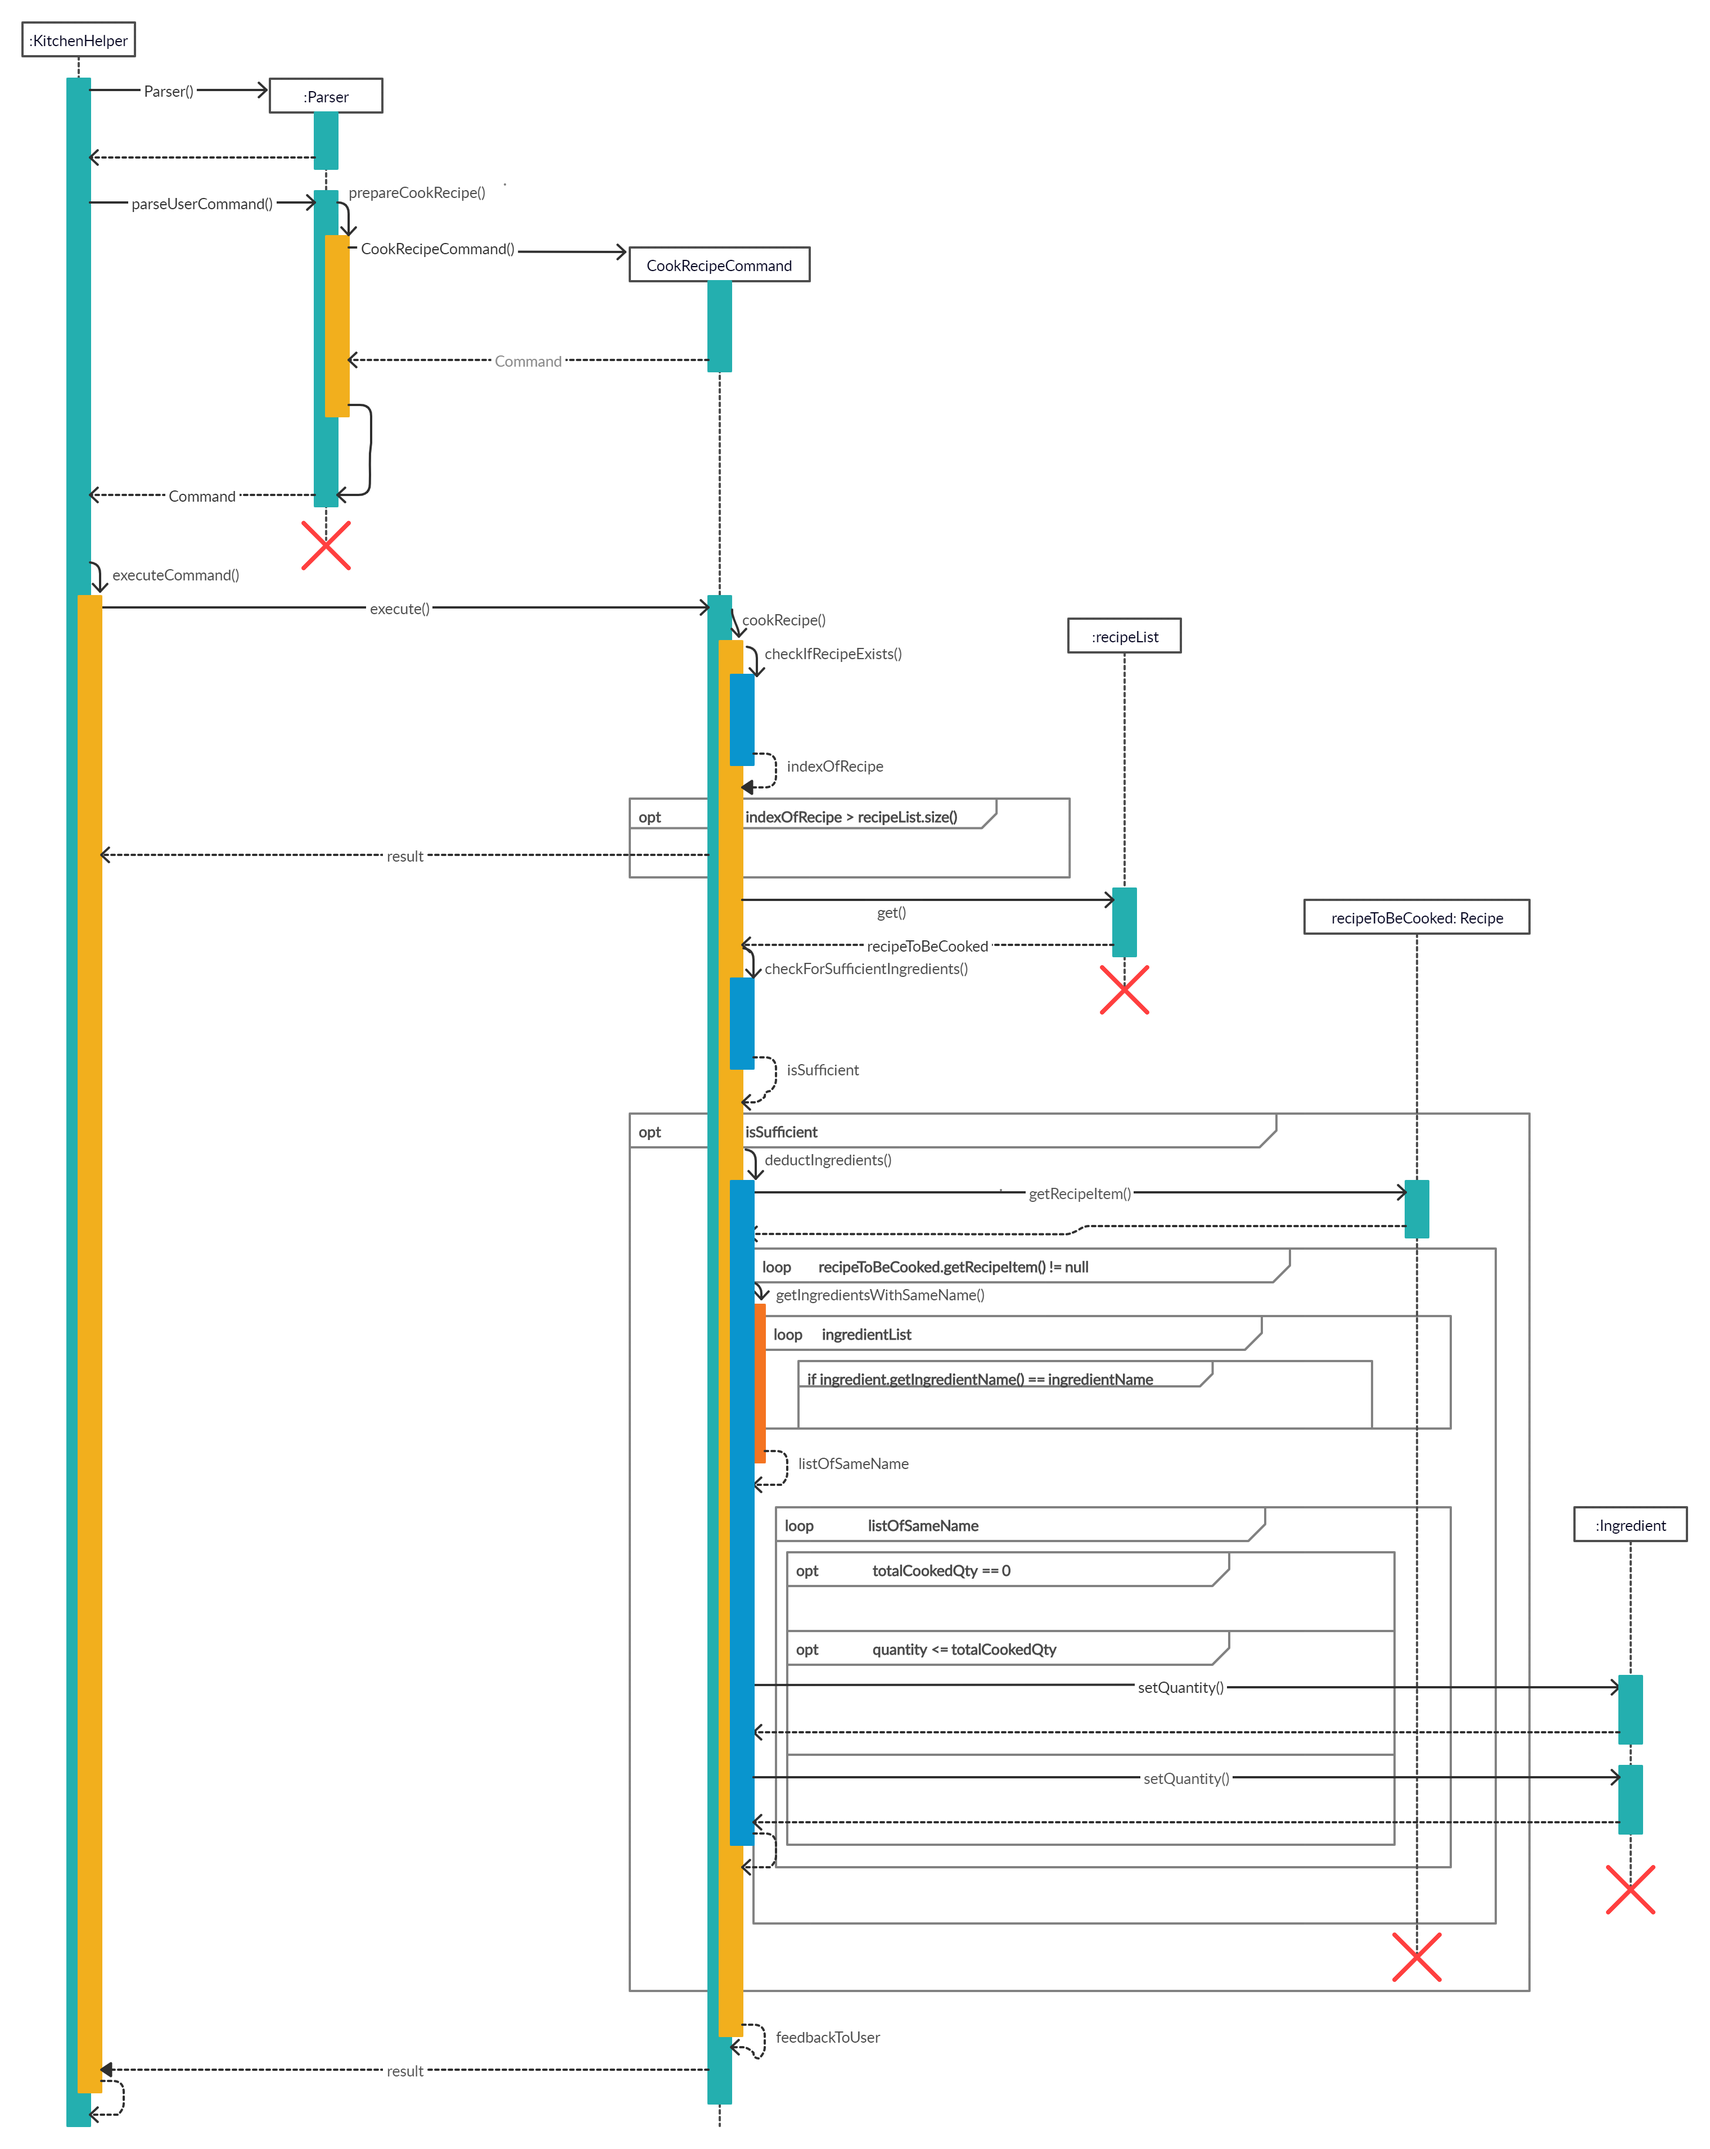
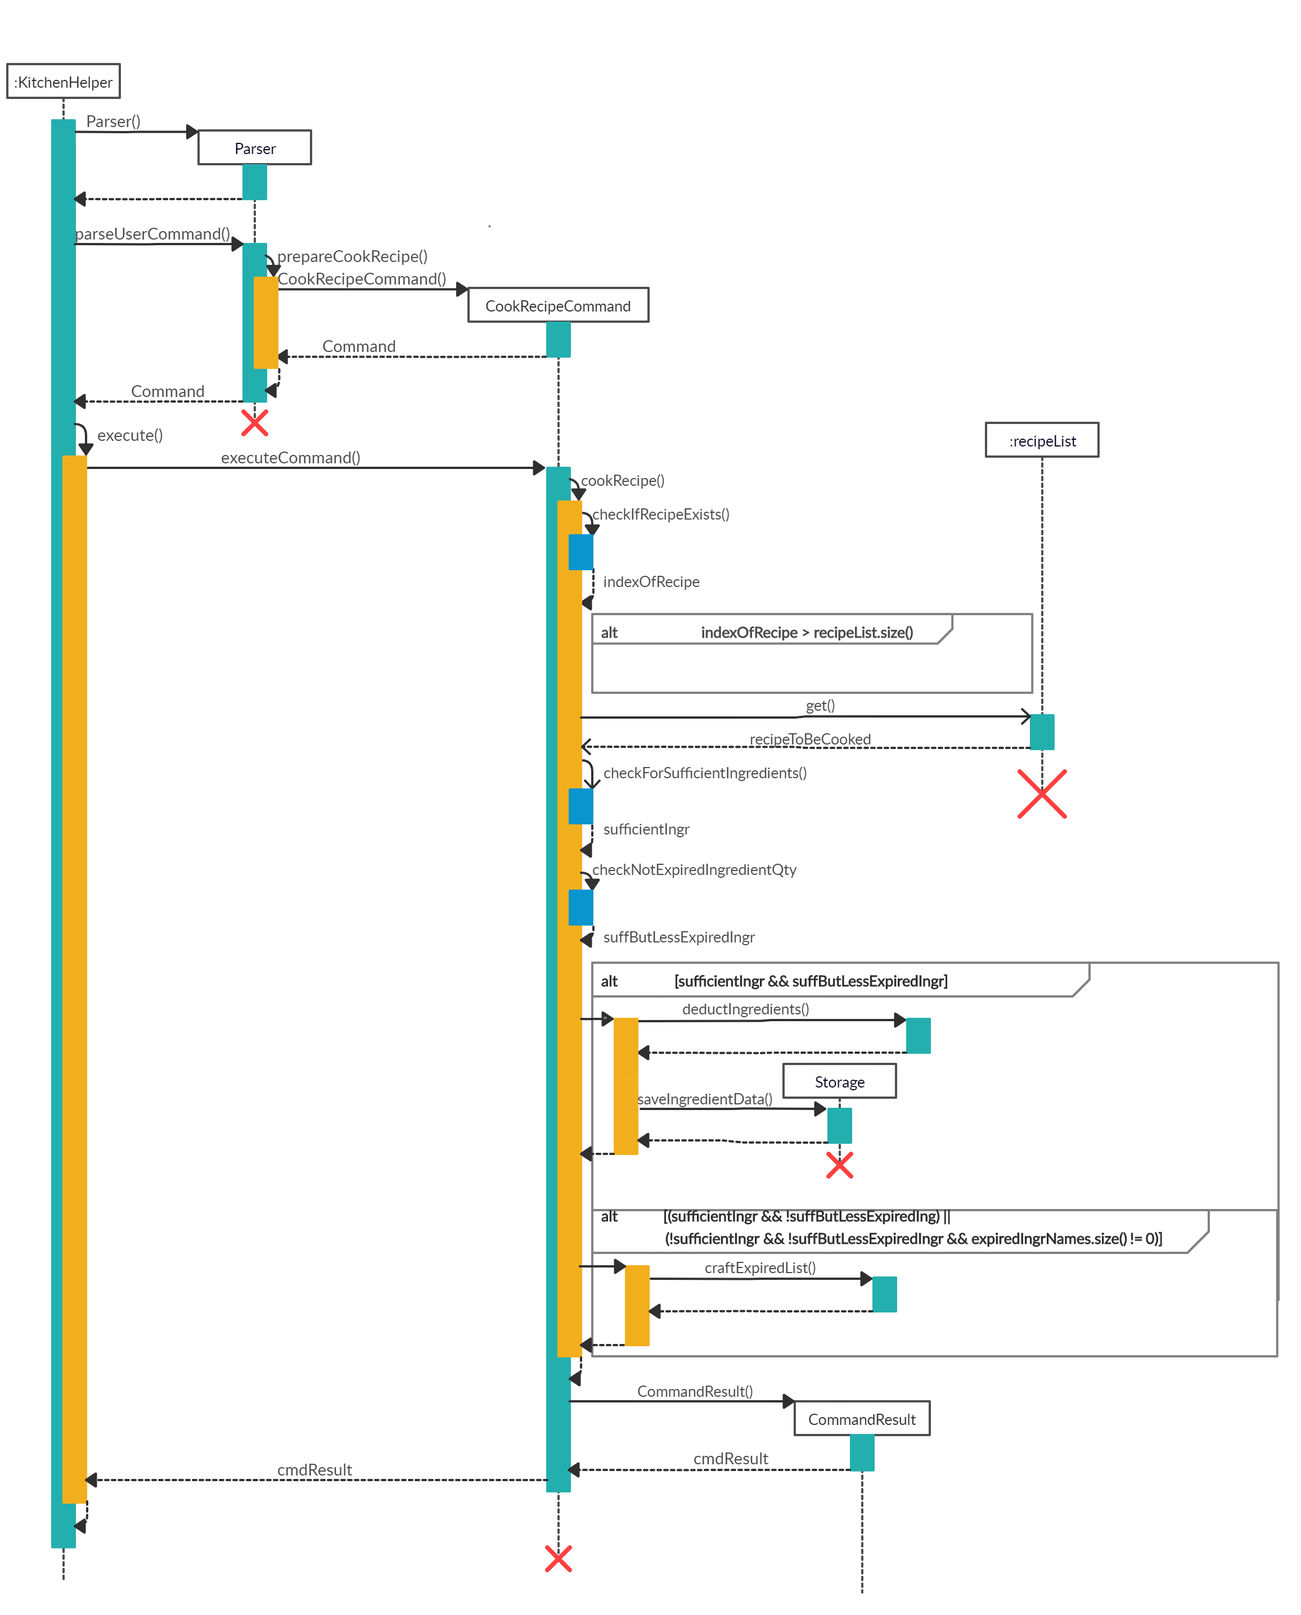
developer guide edits for deleterecipe, deleteingredient and cookrecipe

diff --git a/docs/DeveloperGuide.md b/docs/DeveloperGuide.md
@@ -210,23 +210,24 @@ Alternative 2 (current choice): Creating a fixed array which includes the order 
 #### 4.1.3. Delete all/ specific ingredients(s)
 The deletion feature for ingredients allows the user to delete ingredients either by the name or index of the ingredients. In addition to that, it allows users to reduce the quantity of a specific ingredient. 
 
-![DeleteIngredient Sequence Diagram](images/deleteIngredientSequenceDiagram.png)
-
 ##### Implementation
 When the user attempts to reduce the quantity of ingredient at index 1 of the ingredients inventory by 4,  the `Kitchen Helper`, ‘Parser’ and ‘DeleteIngredientCommand` class will be called upon. The following sequence of steps will then occur: 
 
 The following image below shows the sequence of steps for step 1 and 2:
 ![DeleteIngredient Sequence Diagram](images/deleteIngredientSequenceDiagramPart1.png)
 
-1) The user keyed in “deleteingredient /i 1 /q 4”`. 
+1) The user keyed in “deleteingredient /i 1 /q 4”`.
+    ![DeleteIngredient State 1](images/deleteIngredientState1.png) 
     2. A `UI` object will be created and it will call `UI#getUserCommand()` method to take in the input that the user has keyed in.
     3. A `String` object will be returned and saved into the `userCommandInput` variable in `Kitchen Helper`.
     4. The variable `userCommandInput` is being parsed into the `Parser` class as an argument for this method `Parser#parseUserCommand`.
 2) The command inserted by the user is being parsed into the `Parser` and a new `Command` object is being created. 
+    ![DeleteIngredient State 2](images/deleteIngredientState2.png)
     2. The variable `userCommandInput` will be identified as `deleteingredient` in the `Parser#parseUserCommand()`.The `Parser#prepareDeleteIngredient()` is being called to prepare the `userCommandInput` string to create a `DeleteIngredientCommand` object.
     3. The `DeleteIngredientCommand` object is created with the ingredientIndex and quantity set to 4. 
-
-3) After creating `DeleteIngredientCommand` object, this Command will now be executed. The following image below shows the sequence for the next steps:
+3) After creating `DeleteIngredientCommand` object, this Command will now be executed. 
+    ![DeleteIngredient State 3](images/deleteIngredientState3.png)
+    The following image below shows the sequence for the next steps:
     ![DeleteIngredient Sequence Diagram](images/deleteIngredientSequenceDiagramPart2.png)
     2. The `DeleteIngredientCommand#execute()` will be called which in turned called DeleteIngredientCommand#deleteIngredientByIndex()`. 
     3. Since the `quantity` of this ingredient is not null, the `DeleteIngredientCommand#deleteQuantity()` will be called to reduce the quantity of this ingredient.  
@@ -234,6 +235,10 @@ The following image below shows the sequence of steps for step 1 and 2:
     5. Then, `Storage#saveIngredientData()` will be called to save the current `ingredientsList` into an output file.
     6. Lastly, a String called `feedbackToUser`will be returned to the user to inform the user of the outcome of the command. 
 4)  The details will then be printed onto the console using `Ui#showResultToUser(result)`.
+
+The following shows the full sequence diagram for this command:
+![Delete Ingredient Sequence Diagram](images/deleteIngredientSequenceDiagram.png)
+
 ##### Design Considerations
 Aspect 1: How to differentiate `deleteingredientByQuantity` and `deleteIngredient` <br>
 <br>
@@ -251,9 +256,9 @@ Alternative 2: Create 1 more constructor just for deduction of quantity for ingr
 |**Pros**|This gives us more flexibility on what object can be created with different variables.|
 |**Cons**|There may be an overload of constructors.|
 <br>
-Aspect 2: Calling of function for deletion of `ingredient` when `ingredient` has the quantity of zero is found in 
+Aspect 2: Calling of function for deletion of `ingredient` when `ingredient` has the quantity of zero.
 <br> 
-Alternative 1: One `if-else` block to cater for `deleteQuantity`and `deleteIngredient`
+Alternative 1: One nested `if-else` block to cater for `deleteQuantity`and `deleteIngredient`
 
 |     |     |
 |-----|-----|
@@ -265,7 +270,7 @@ Alternative 2: Two non-nested `if-else` blocks to cater for `deleteQuantity` and
 |     |     |
 |-----|-----|
 |**Pros**|SLAP is not violated. |
-|**Cons**|| 
+|**Cons**|Longer lengths of codes. | 
 
 #### 4.1.4. Search for ingredients based on keyword(s)
 
@@ -404,25 +409,34 @@ Alternative 2 (current choice): Using arrayList.get(item) to get the recipe requ
 #### 4.2.3. Cooking of recipe
 The feature allows the user to cook a recipe if there are sufficient ingredients. The user will also indicate how many pax this recipe would be cooked for.
 
-![Cook Recipe Sequence Diagram](images/cookRecipeCommandSequenceDiagram.png)
-
 ##### Implementation 
 When the user attempts to cook `Chicken Salad` recipe from `Kitchen Helper`, the `Kitchen Helper`, `Parser` and `cookRecipeCommand` class will be called upon. The following sequence of steps will then occur:
 1. The user keyed in "cookrecipe /n `Chicken Salad`".
     2. A `UI` object will be created and it will call `UI#getUserCommand()` method to take in the input that the user has keyed in. 
     3. A `String` object will be returned and saved into the `userCommandInput` variable in `Kitchen Helper`. 
     4. The variable `userCommandInput` is being parsed into the `Parser` class as an argument for this method `Parser#parseUserCommand()`.
+    ![Cook Recipe State 1](images/cookRecipeState1.png)
 2. The command inserted by the user is being parsed into the `Parser` and a new `Command` object is being created. 
     2. The variable `userCommandInput` will be identified as `cookrecipe` in the `Parser#parseUserCommand()`.The `Parser#prepareCookRecipe()` is being called to prepare the `userCommandInput` string to create a `CookRecipeCommand` object.
+    ![Cook Recipe State 2](images/cookRecipeState2.png)
 3. The command is now being executed.
     2. The `CookRecipeCommand#execute()` will be called.
     3. The `CookRecipeCommand#cookRecipe()` is called and it checks whether the recipe inputted by the user exists by calling the `CookRecipeCommand#checkIfRecipeExists()` method.
-    4. If recipe exists, the `CookRecipeCommand#checkIfRecipeExists()` method will return the index of the recipe, else it will return a number that is bigger than the size of `recipelist`.
-    5. Next, it is to check if there are sufficient ingredients to be deducted from the ingredients' inventory to cater for the number of pax for the specific recipe by calling `CookRecipeCommand#checkForSufficientIngredients()` method.
-    6. If `CookRecipeCommand#checkForSufficientIngredients()` returns true, then `CookRecipeCommand#deductIngredients()` will be called to deduct the ingredients in the ingredients' inventory.
-    6. Lastly, a String called `feedbackToUser` will be returned to the user to inform the user of the outcome of the command.
+    4. If recipe exists, the `CookRecipeCommand#checkIfRecipeExists()` method will return the index of the recipe, else it will return a number that is bigger than the size of `recipelist`. In this case, the recipe `Chicken Salad` exists, so it will return the index of the recipe 
+    5. Next, it is to check if there are sufficient non-expiring ingredients to be deducted from the ingredients' inventory to cater for the number of pax for the specific recipe by calling `CookRecipeCommand#checkForSufficientIngredients()` and `CookRecipeCommand#checkNotExpiredIngredientQty()` which their results are saved into `sufficientIngr` and `suffButLessExpiredIngr` boolean values respectively. 
+    ![Cook Recipe Sequence Diagram Part 2](images/cookRecipeCommandSequenceDiagramPart2.png)
+    6. Then, three of the following cases may happen:
+	   2. If both `sufficientIngr` and `suffButLessExpiredIngr` return true
+	       2. `CookRecipeCommand#deductIngredients()` will be called to deduct the ingredients in the ingredients' inventory.
+	       3. Then, `Storage#saveIngredientData()` will be called to save the current `ingredientsList` into an output file.
+	   3. If `sufficientIngr` returns true but `suffButLessExpiredIngr` returns false or both `sufficientIngr` and `suffButLessExpiredIngr` return false and the size of `expiredIngrNames` is not zero
+	       2. `CookRecipeCommand#craftExpiredList()` will be called to craft the list of expired ingredients which will be returned to tell the users the ingredients that are expired. 
+    7. Lastly, a String called `feedbackToUser` will be returned to the user to inform the user of the outcome of the command.
+    ![Cook Recipe State 3](images/cookRecipeState3.png)
 4. The details will then be printed onto the console using `Ui#showResultToUser(result)`.
 
+The following shows the full sequence diagram for this command:
+![Cook Recipe Sequence Diagram](images/cookRecipeSequenceDiagram.png)
 
 ##### Design considerations
 Aspect: Preparing the deduction of ingredients when cooking a recipe
@@ -459,22 +473,26 @@ Alternative 2: building an index on the first letter of the recipe name
 #### 4.2.4. Delete all/ specific recipe(s)
 The deletion feature for specific recipes allows the user to delete recipes either by the name or index of the recipe. 
 
-![Delete Recipe Sequence Diagram](images/deleteRecipeSequenceDiagram.png)
 ##### Implementation
 When the user attempts to delete the `Chicken Rice` recipe from Kitchen Helper, the `Kitchen Helper`, `Parser` and `DeleteRecipeCommand` class will be called upon. The following sequence of steps will then occur: 
 1. The user keyed in “deleterecipe /n `Chicken Rice`".
+    ![Delete Recipe State 1](images/deleteRecipeState1.png)
     2. A `UI` object will be created and it will call `UI#getUserCommand()` method to take in the input that the user has keyed in. 
     3. A `String` object will be returned and saved into the `userCommandInput` variable in `Kitchen Helper`. 
     4. The variable `userCommandInput` is being parsed into the `Parser` class as an argument for this method `Parser#parseUserCommand()`.
 2. The command inserted by the user is being parsed into the `Parser` and a new `Command` object is being created. 
+    ![Delete Recipe State 1](images/deleteRecipeState2.png)
     2. The variable `userCommandInput` will be identified as `deleterecipe` in the `Parser#parseUserCommand()`.The `Parser#prepareDeleteRecipe()` is being called to prepare the `userCommandInput` string to create a `DeleteRecipeCommand` object.
 3. The command is now being executed.
+    ![Delete Recipe State 1](images/deleteRecipeState3.png)
     2. The `DeleteRecipeCommand#execute()` will be called.
     3. As this is a deletion by recipe name, the `recipeIndex` variable is set as null. As the variable is null, `DeleteRecipeCommand#deleteRecipeByName()` will be called.
     4. Next, the `DeleteRecipeCommand#getRecipeIndex()` to get the index based on the recipe name that the user has inputted. With the given index, `DeleteRecipeCommand#deleteRecipe()` will be called to delete the recipe. 
     5. Lastly, a String called `feedbackToUser` will be returned to the user to inform the user of the outcome of the command. 
 4. The details will then be printed onto the console using `Ui#showResultToUser(result)`.
 
+The following shows the full sequence diagram for this command:
+![Delete Recipe Sequence Diagram](images/deleteRecipeSequenceDiagram.png)
 
 ##### Design Considerations
 Aspect: How is the `DeleteRecipeCommand` initialise. <br>
@@ -770,7 +788,7 @@ __Value proposition__: Manage food inventory quickly compared to a typical mouse
 |v2.0|user|retrieve all of my past history that i have entered in the application|view them again.|
 |v2.0|user|reset all my ingredients, chores, recipes|restart the application.|
 |v2.0|user|deduct ingredients that expire first|do not waste my ingredients.|
-|v2.0|user|be informed if I have sufficient ingredients to cook a specific recipe|find other recipes to cook.\
+|v2.0|user|be informed if I have sufficient ingredients to cook a specific recipe|find other recipes to cook.|
 
 ### Appendix C: Value proposition - Use cases
 
@@ -862,8 +880,22 @@ Use case ends.
    1. Prerequisites: List all the ingredient using the `listingredient all` command. 
    2. Test case: 'addingredient /n beef /c meat /q 3 /p 20.20 /e 03/03/2020'    
    Expected: Entry can be seen using `listingredient all` command.
+   
+#### F.3. Delete an ingredient 
+1. Delete an ingredient from Kitchen Helper.
+   1. Prerequisites: List all the recipes using the `listingredient all` command. 
+   2. Test case (if ingredient index exists): `deleteingredient /i 1`
+   Expected: The ingredient will be deleted. It can be noticed by using the `listingredient all` command. 
+   3. Test case (if ingredient index does not exists): `deleteingredient /i -1` 
+   Expected: No ingredients are deleted. It can be noticed by using the `listingredient all` command. 
+   4. Test case (if there is sufficient quantity to be reduced from the ingredient): `deleteingredient /i 1 /q 2`
+   Expected: The quantity of the ingredient will change as seen by using `listingredient all` command.
+   5. Test case (if there are insufficient quantity to be reduced from the ingredient): `deleteingredient /i 1 /q 10`
+   Expected: The quantity of the ingredient will not changed as seen by using `listingredient all` command. 
+   6. Test case (if the quantity of the ingredient is reduced to zero after deduction): `deleteingredient /i 1 /q 1`
+   Expected: The ingredient will be deleted as its final quantity is zero. This can be noticed by using `listingredient all` command.
     
-#### F.3. Search for ingredient
+#### F.4. Search for ingredient
 1. Search for ingredients in Kitchen Helper.
    1. Prerequisites: The ingredient list should not be empty.
    2. Test case: `searchingredient beef`  
@@ -875,13 +907,13 @@ Use case ends.
    5. Test case: `searchingredient $20`  
    Expected: Ingredient entries that have the keyword matching `$20` price are listed.
    
-#### F.4. Add a recipe
+#### F.5. Add a recipe
 1. Add a recipe into Kitchen Helper
     1. Prerequisites: List all the ingredient using the `listingredient all` command.
     1. Test case: `addrecipe /n warm milk /i HL Milk:1:Dairy`\
     Expected: Entry can be found using `listingredient all` command. 
 
-#### F.5. Cook a recipe
+#### F.6. Cook a recipe
 1. Cooks the specified recipe and ingredients in the recipe will be automatically deducted.
     1. Prerequisites: List all the ingredient using the `listingredient all` command.
     1. Test case (sufficient ingredient): `cookrecipe /n warm milk /p 2`\
@@ -890,14 +922,22 @@ Use case ends.
     Expected: The automatic deduction will not be carried out and expired item will be notified to user.
     1. Test case: (Insufficient even with expired ingredients): `cookrecipe /n warm milk /p 2`\
     Expected: The automatic deduction will not be carried out.
+    
+#### F.7. Delete a recipe 
+1. Delete a recipe from Kitchen Helper.
+   1. Prerequisites: List all the recipes using the `listrecipe all` command. 
+   2. Test case (if recipe index or name exists): `deleterecipe /i 1` OR `deleterecipe /i warm milk`
+   Expected: The recipe will be deleted. It can be noticed by using the `listrecipe all` command. 
+   3. Test case (if recipe index or name does not exists): `deleterecipe /i -1` OR `deleterecipe /n Beef Stew`
+   Expected: No recipes are deleted. It can be noticed by using the `listrecipe all` command. 
 
-#### F.6. Search for recipe
+#### F.8. Search for recipe
 1. Search for similar recipe in Kitchen Helper.
    1. Prerequisites: The recipe list should not be empty.
    2. Test case: 'searchrecipe chicken' 
    Expected: Recipe's name entries that have the keyword matching `chicken' are listed. 
    
-#### F.7. Search for chore
+#### F.9. Search for chore
 1. Search for chores in Kitchen Helper.
    1. Prerequisites: The chore list should not be empty.
    2. Test case: `searchchore groceries`  
@@ -905,7 +945,7 @@ Use case ends.
    3. Test case: `searchchore Tuesday`  
    Expected: Chore entries that have the keyword matching `Tuesday` as a string are listed.  
    
-#### F.8. Saving data
+#### F.10. Saving data
 
 1. Load ingredient data into Kitchen Helper.
    1. Prerequisites: The ingredient list save file should not be empty. 
